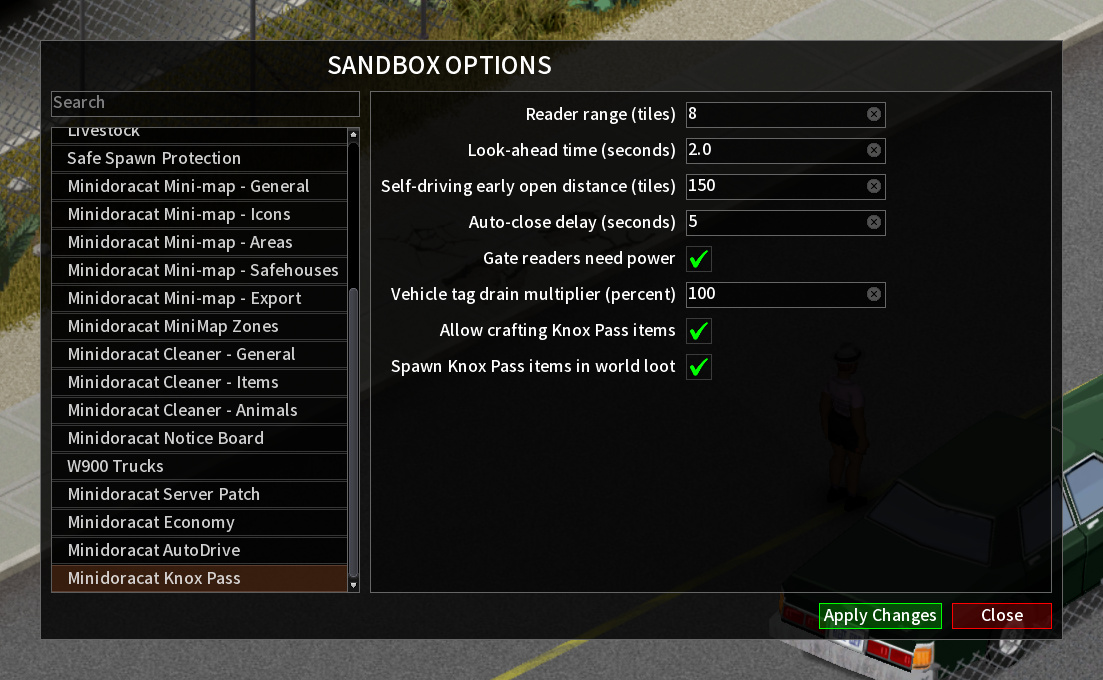
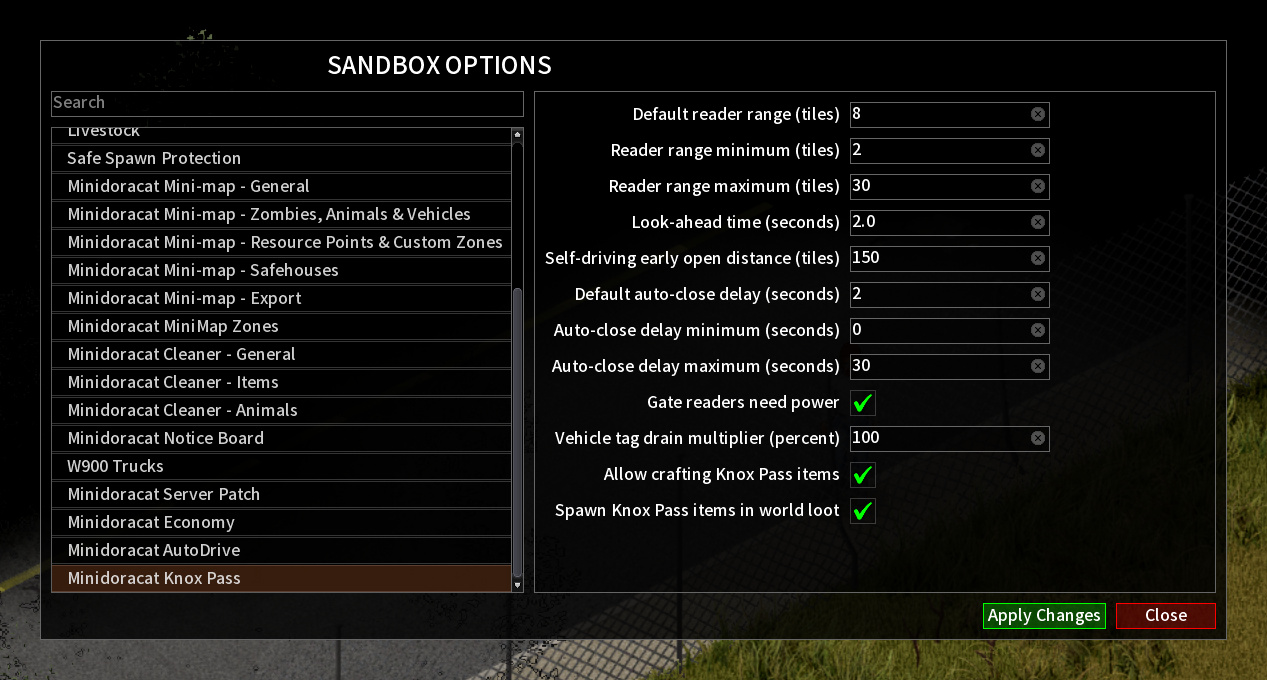
Workshop 截圖與說明：自建大門、每扇門設定、殭屍門鎖
截圖 12–15（r3：車庫捲門、閘門四向、拖車整台通過、地上範圍圈）照 temp/workshop-shots-1007 拍；05、09 重拍（管理視窗的兩個下拉選單、沙盒新的上下限）。16、17 是 r4 的拼圖：五種兩層樓大門加柱面讀頭與開門中、全開，雙桿閘門、兩層樓捲門與 6／9 格寬捲門，取自 r4 報告補拍 knoxpass-report-20261008-062945-8870（避開 debug 主控台裁切，en／zh 只差標籤），JPG ≤275,000 bytes。

簡介三語：抬升閘門那行改成「自己蓋大門」，各門各自登記那行加上感應距離與關門延遲。說明串（繁中、英文）補上自己蓋的大門、每扇門設定、沙盒上下限、整台通過就關門、殭屍不擋門與門鎖、用 Knox Pass 關門、已知限制與常見問題；材料名照原版譯名（金屬片、鐵絲、Steel Sheet、Iron Pipe）。README 功能與效果圖同步；workshop.txt 由 gen_workshop_txt.py 重建。

diff --git a/STEAM_DISCUSSION_guide_EN.md b/STEAM_DISCUSSION_guide_EN.md
@@ -27,9 +27,10 @@ Knox Pass lets you drive home without getting out: put a tag in the car and a re
 
 [h3]Gate Reader[/h3]
 [list]
-[*] [b]Where it fits[/b]: map doors, fence gates, double doors, garage doors, and player-built doors and gates.
-[*] [b]Installing[/b]: right-click the gate with the reader and a screwdriver. Whoever installs it owns it. Once installed, the reader shows on the gate post (a boom barrier has its reader on top of the cabinet); it doesn't block people or cars.
-[*] [b]Management window[/b]: shows the gate type, owner, power, lock, registered cars (charge, last pass) and nearby cars with a tag.
+[*] [b]Where it fits[/b]: map doors, fence gates, double doors, garage doors, player-built doors and gates, and Knox Pass's own roll-up garage doors, two-story roll-up doors and two-story gates (see "Build your own gates" below).
+[*] [b]Installing[/b]: right-click the gate with the reader and a screwdriver. Whoever installs it owns it. Once installed, the reader shows on the gate post (on the face of the pillar for two-story gates; boom barriers and double boom barriers have theirs on top of the cabinet); it doesn't block people or cars.
+[*] [b]Management window[/b]: shows the gate type, owner, power, lock, this gate's read range and close delay, registered cars (charge, last pass) and nearby cars with a tag. While it's open, an amber circle on the ground shows this gate's read range (the range for a car standing still; faster cars open it sooner).
+[*] [b]Per-gate settings[/b]: the owner or an admin picks this gate's read range and close delay from two dropdowns in the window, limited to what the server allows (2–30 tiles and 0–30 seconds by default); "Server default" follows the sandbox setting. If the server later narrows the limits, gates that were set follow the new limits and keep their value.
 [*] [b]Removing[/b]: the owner can take the reader back. If Knox Pass has the gate open, it closes it first and restores the original lock.
 [/list]
 
@@ -40,46 +41,62 @@ Knox Pass lets you drive home without getting out: put a tag in the car and a re
 [*] [b]Craft it in color[/b]: the crafting list has one entry per color (for example "Craft Knox Pass Vehicle Tag (Black)"). It takes the usual materials plus one use of that paint, and you need a paintbrush (it isn't used up). Without paint you craft a Cream one.
 [*] [b]In your inventory[/b]: right-click a tag or reader you carry (bags count) → [b]Repaint[/b] → pick a color. Colors you lack paint or a paintbrush for are grayed out; hover to see what's missing. A tag keeps its charge and its registration at every gate, so it opens the same gates after repainting.
 [*] [b]A reader on a gate[/b]: the owner or an admin right-clicks the gate → Knox Pass → [b]Repaint[/b]; your character walks to the gate and paints it, and registrations stay as they are.
-[*] [b]A tag in a car[/b]: the windshield shows its color. To repaint it, remove it in the mechanics panel first, then install it again. A boom barrier's built-in reader can't be repainted.
+[*] [b]A tag in a car[/b]: the windshield shows its color. To repaint it, remove it in the mechanics panel first, then install it again. The built-in reader of a boom barrier or double boom barrier can't be repainted.
 [/list]
 
 [h3]Boom Barrier[/h3]
 [list]
-[*] [b]Building[/b]: craft a "Knox Pass Boom Barrier Kit" and place it on the road from the build menu. It takes 4 tiles: 1 for the cabinet and 3 for the lane; rotate it to run north–south or east–west.
+[*] [b]Building[/b]: craft a "Knox Pass Boom Barrier Kit" and place it on the road from the build menu. It takes 4 tiles: 1 for the cabinet and 3 for the lane; rotate it while building to face any of four directions, with the cabinet at either end of the lane.
 [*] [b]Built-in reader[/b]: whoever builds it owns it, and registration, the lock, power and the management window all work like a gate. The reader can't be removed on its own.
-[*] [b]Easy to read[/b]: when closed, the pivot lamp is red and a STOP sign hangs from the arm; when it opens for a registered car, the arm lifts over about 4 seconds and the lamp turns green. Stop lines and KNOX PASS lettering are painted on the lane on both sides.
-[*] [b]Removing and damage[/b]: dismantling the cabinet removes the whole barrier and gives the kit back. If the cabinet or the lane gets broken, the whole barrier is destroyed with no refund.
+[*] [b]Easy to read[/b]: when closed, the pivot lamp is red and a STOP sign hangs from the arm; when it opens for a registered car, the arm lifts over about 4 seconds, easing in and out, and the lamp turns green. Stop lines and KNOX PASS lettering are painted on the lane on both sides.
+[*] [b]Removing and damage[/b]: dismantling the cabinet removes the whole barrier and gives the kit back. If the cabinet or the lane gets broken, the whole barrier is destroyed with no refund. New barriers have 1000 durability on the cabinet and lane; barriers built before this update keep their old durability.
+[/list]
+
+[h3]Build your own gates[/h3]
+[list]
+[*] [b]Roll-up garage doors[/b]: search the build menu for "Roll-up Garage Door". Vanilla look in Industrial White, Green and White, each 3, 4, 6 or 9 tiles wide (6 fits two cars side by side, 9 fits three). Needs Welding 3 plus a welding torch, welding rods, steel sheets, iron pipes and door hinges; wider doors take more. No reader built in: install one like on any gate.
+[*] [b]Two-story roll-up doors[/b]: the same three colors, 3, 4, 6 or 9 wide; the curtain rolls all the way up into the box on top, so vans fit through. Needs Welding 4 and twice the materials of the one-story door of the same width. No reader built in.
+[*] [b]Double boom barrier[/b]: 6 or 9 tiles wide, with a cabinet at each end and two arms that meet in the middle. Build it with a screwdriver from 1 boom barrier kit plus iron pipes, steel sheets and wire (6 wide: 4, 2 and 2; 9 wide: 6, 3 and 2); no skill needed. It comes with a built-in reader, and the builder owns it.
+[*] [b]Two-story gates[/b]: 6 or 9 tiles wide double gates in five looks: Chain-link, Steel Plate, Iron Bars (Welding 5), Ranch Wood (Carpentry 5) and Medieval Oak (Carpentry 5, plus Welding 2 for its iron bands). Rotating while building picks which side the leaves swing to. No reader built in; once installed, the reader hangs on the face of the post.
+[*] [b]Durability[/b]: a one-car door (3 or 4 wide) has 1000, two cars (6 wide) 1500 and three cars (9 wide) 2000; two-story ones get 500 more.
+[*] [b]Removing and damage[/b]: dismantling either end (cabinet or post) of a double boom barrier or two-story gate removes the whole thing and refunds only that end's materials. If any door piece gets broken, the whole thing is destroyed with no refund.
+[*] [b]Animation[/b]: arms, roll-up curtains and gate leaves ease in and out as they move, and several gates moving at once each run on their own.
 [/list]
 
 [h3]Hands-free opening and closing[/h3]
 [list]
 [*] [b]Who opens it[/b]: the driver of a car carrying a registered, charged tag. Passengers, unregistered cars and empty tags open nothing.
 [*] [b]Opens early[/b]: the server predicts where the car is heading from its actual movement, so the faster you drive the earlier it opens; driving past in another direction doesn't. When a car under Minidoracat AutoDrive heads for the gate, the gate opens while it is still out of the car's sight; newer AutoDrive versions also know in advance that the gate will open for them, so they never slow down or detour for it.
-[*] [b]Closes by itself[/b]: it only closes gates Knox Pass opened, after no registered, driven car has been in range for a while.
-[*] [b]Never closes on anything[/b]: it waits while a car, a person or a zombie is in the doorway, and tries again two seconds later.
+[*] [b]Closes by itself[/b]: it only closes gates Knox Pass opened. Once a registered car, including any trailer it tows, has fully passed through the gateway, the close countdown starts; it doesn't wait for the car to leave the read range, and a car parked inside doesn't hold it open. Turning back toward the gate opens it again.
+[*] [b]Never closes on anything[/b]: it waits while a car or a person is in the doorway and tries again two seconds later. Zombies alone don't hold it open, so zombies following a car in can't keep the gate open.
 [*] [b]Warning before you reach it[/b]: when you drive toward a Knox Pass gate or barrier that won't open for you, you get a message above your head and in the top-right corner about 20 tiles before it, saying why (no tag installed, the tag isn't registered at that gate, an empty tag, an unpowered reader), so you don't drive straight into it.
 [/list]
 
 [h3]Gate lock and opening on foot[/h3]
 [list]
-[*] [b]Lock[/b]: the owner can turn on "Lock (only Knox Pass opens it)" in the right-click menu or the window. A locked gate can't be opened bare-handed; Knox Pass unlocks it to open and locks it again once closed. A house door's original key keeps working, so whoever holds that key can still open it.
+[*] [b]Lock[/b]: the owner can turn on "Lock (only Knox Pass opens it)" in the right-click menu or the window. A locked gate can't be opened bare-handed, and zombies that open doors can't open it either; Knox Pass unlocks it to open and locks it again once closed. A house door's original key keeps working, so whoever holds that key can still open it.
 [*] [b]Your old locks stay intact[/b]: a map door that was locked goes back to exactly the same kind of lock after closing, so its original key still works.
-[*] [b]On foot[/b]: right-click → Knox Pass → [b]Open with Knox Pass[/b]. The owner, admins, and anyone carrying a registered, charged tag can use it.
+[*] [b]On foot[/b]: right-click → Knox Pass → [b]Open with Knox Pass[/b]. The owner, admins, and anyone carrying a registered, charged tag can use it. A gate opened on foot stays open at least 5 seconds, so you can walk through even with a very short close delay.
+[*] [b]Close with Knox Pass[/b]: while the gate stands open (for example after someone opened it with the original key), right-click → Knox Pass → [b]Close with Knox Pass[/b]; it closes and locks again. The same people who can open it on foot can use it.
+[*] [b]Gates locked before this update[/b]: they get the new lock automatically; there's nothing to set again.
 [/list]
 
 [h3]Getting them[/h3]
 [list]
 [*] [b]Vehicle Tag[/b]: Electrical 2. Use a screwdriver to build it from a pager or TV remote, 2 electronics scrap and 1 battery; add one use of paint and a paintbrush to craft it in that color (see "Shell Colors" above). Also found in gas station storage, car supply stores, mechanic electrical shelves and electronics stores, in a random color.
-[*] [b]Gate Reader[/b]: Electrical 4. Use a screwdriver to build it from a radio receiver, 3 electronics scrap and 2 electric wires; it can be crafted in color the same way. Also found in electrician tool boxes, electronics crates, hardware stores and mechanics, in a random color.
-[*] [b]Boom Barrier Kit[/b]: Electrical 4. Use a screwdriver to build it from 1 Gate Reader (any color), 2 metal pipes, 1 sheet of metal and 2 electric wires. Crafting only; it isn't found as loot.
+[*] [b]Gate Reader[/b]: Electrical 4. Use a screwdriver to build it from a radio receiver, 3 electronics scrap and 2 electrical wires; it can be crafted in color the same way. Also found in electrician tool boxes, electronics crates, hardware stores and mechanics, in a random color.
+[*] [b]Boom Barrier Kit[/b]: Electrical 4. Use a screwdriver to build it from 1 Gate Reader (any color), 2 iron pipes, 1 steel sheet and 2 electrical wires. Crafting only; it isn't found as loot.
+[*] [b]Gates you build[/b]: roll-up garage doors, two-story roll-up doors, two-story gates and double boom barriers all come from the build menu; see "Build your own gates" above for materials and skills.
 [/list]
 
 [h2]⚙ Server settings (sandbox page "Knox Pass")[/h2]
 [list]
-[*] [b]Read range[/b]: 8 tiles by default (2–30). The range around the gate while the car stands still.
+[*] [b]Read range[/b]: 8 tiles by default (2–50). The range around the gate while the car stands still; owners can set each gate to a value within the limits.
+[*] [b]Read range minimum / maximum[/b]: 2 / 30 tiles by default (2–50). The window's dropdown only lists this range, and each gate's effective value is kept inside it.
 [*] [b]Look-ahead seconds[/b]: 2 by default (0–5). How far ahead along the car's movement to look; 0 uses the plain range only.
 [*] [b]Self-driving early open distance[/b]: 150 tiles by default (0–250). When a car under Minidoracat AutoDrive heads for the gate (the gate within about 12 degrees of its direction of travel), the gate opens once the car is this close; the server must have the gate's area loaded first, so in practice it opens about 70–130 tiles out. 0 treats it like any other car.
-[*] [b]Auto-close delay[/b]: 5 seconds by default (0–120).
+[*] [b]Auto-close delay[/b]: 2 seconds by default (0–120).
+[*] [b]Auto-close delay minimum / maximum[/b]: 0 / 30 seconds by default (0–120); they work like the read range limits.
 [*] [b]Reader needs power[/b]: on by default. Grid power or a generator both count, and outdoor gates do get grid power.
 [*] [b]Tag battery drain[/b]: 100% by default (0–500%, 0 means it never runs out).
 [*] [b]Allow crafting[/b] and [b]Spawn as loot[/b]: on by default.
@@ -88,12 +105,13 @@ Knox Pass lets you drive home without getting out: put a tag in the car and a re
 [h2]⚠ Known limitations[/h2]
 [list]
 [*] Modded gates built some other way (for example ones that fake opening by swapping textures in code) aren't supported automatically. Mod authors can hook them in through the public interface, and players can ask for support in the feedback section.
-[*] Player-built garage doors aren't supported (the game itself doesn't open them as a group).
+[*] Garage doors built from the vanilla build menu aren't supported (the game itself doesn't open them as a group); for a garage door that opens by itself, build a Knox Pass roll-up garage door instead.
+[*] The door pieces of the barriers, roll-up doors and two-story gates you build are garage doors, which the game doesn't let you barricade.
 [*] A parked car with nobody in it and the engine off doesn't recharge its tag.
 [*] When a self-driving car passes along another road heading almost straight at the gate (for example a parallel road a few dozen tiles away), the gate may open early and close again a few seconds later.
 [*] The server can only open a gate once it has loaded that part of the map (roughly 60–130 tiles ahead of the car). With older AutoDrive versions a self-driving car may now and then see the gate closed a moment before it opens and slow down or drive around; newer versions are not affected. If the gate never opens, the self-driving car stops in front of it and waits or hands control back, just like at any closed gate; when the reason is something like an unpowered reader or a tag that isn't registered at that gate, newer AutoDrive versions tell you why in the top-right corner and with a voice line.
 [*] Low fence gates can always be climbed over; the lock doesn't stop climbing.
-[*] The boom barrier's cabinet always sits at one end (west for north–south, south for east–west); it can't be mirrored yet. Its lamp is just a color and doesn't glow at night.
+[*] Barrier lamps are just a color and don't glow at night.
 [/list]
 
 [h2]📜 Where the name comes from[/h2]
@@ -108,8 +126,9 @@ Knox Pass lets you drive home without getting out: put a tag in the car and a re
 [h2]❓ FAQ[/h2]
 [list]
 [*] [b]I drove up and nothing opened.[/b] Check that you're in the driver's seat, the tag has charge, this tag is registered at this gate, and the reader has power (the window shows it).
-[*] [b]The gate won't close.[/b] It waits while a car, a person or a zombie is in the doorway, and while a registered car with a driver is still in range.
-[*] [b]Can other players open my gate?[/b] Only the tags you registered can. Once locked it can't be opened bare-handed either, except by someone holding that door's original key; an unlocked gate can still be opened by hand as usual.
+[*] [b]The gate won't close.[/b] It waits while a car or a person is in the doorway (zombies don't count). It also stays open until a registered car has fully passed through, then closes after the close delay.
+[*] [b]Can other players open my gate?[/b] Only the tags you registered can. Once locked, neither bare hands nor zombies can open it, except someone holding that door's original key; an unlocked gate can still be opened by hand as usual.
+[*] [b]Can zombies open my gate?[/b] Not one with the Knox Pass lock on. An unlocked gate can be opened by zombies when the server lets zombies open doors, as in vanilla.
 [*] [b]Is it safe in multiplayer?[/b] Opening, closing, locking and registering are all checked by the server, and the registrations live only on the server.
 [/list]
 

diff --git a/README.md b/README.md
@@ -13,14 +13,15 @@ Project Zomboid Build 42 MOD。
 ## 功能
 
 - **車用感應盒**：真正的車輛零件，原版與 MOD 車都能裝，從車輛維修面板「Knox Pass」分類拆裝；內建電池，車子發動時由電瓶充電。原版車與[支援清單](#支援的-mod-車)上的常見 MOD 車，擋風玻璃上緣看得到裝上的感應盒。
-- **大門讀頭**：對大門按右鍵安裝（需要螺絲起子）；支援地圖上的門、柵欄門、雙開門、車庫門與玩家建造的門。裝好後門柱上看得到讀頭。
-- **各門各自登記**：讀頭擁有者在管理視窗登記附近裝了感應盒的車；登記跟著感應盒走，換車照樣通行。
-- **自動開關門**：有人駕駛、裝著已登記感應盒的車靠近就開門，駛離後自動關；會依車速提前開門，自動駕駛不必停車；門口有車或有人時不關。
-- **抬升閘門**：製作組件後從建造選單放在路上（機箱 1 格加 3 格車道），內建讀頭、建造者就是擁有者；關著亮紅燈、掛 STOP 牌，開啟時桿子抬起轉綠燈，車道兩側有停止線與 KNOX PASS 字樣。
+- **大門讀頭**：對大門按右鍵安裝（需要螺絲起子）；支援地圖上的門、柵欄門、雙開門、車庫門、玩家建造的門，以及下面 Knox Pass 自己的捲門與兩層樓大門。裝好後門柱上看得到讀頭。
+- **各門各自登記**：讀頭擁有者在管理視窗登記附近裝了感應盒的車；登記跟著感應盒走，換車照樣通行。擁有者還能用下拉選單替每扇門設定感應距離與關門延遲（只能選伺服器允許的範圍），視窗開著時地上會畫出這扇門的感應範圍。
+- **自動開關門**：有人駕駛、裝著已登記感應盒的車靠近就開門；會依車速提前開門，自動駕駛不必停車。登記的車連同拖車整台通過門口後就開始倒數關門，門口有車或有人時不關（殭屍不算）。
+- **抬升閘門**：製作組件後從建造選單放在路上（機箱 1 格加 3 格車道，旋轉可選四個方向），內建讀頭、建造者就是擁有者；關著亮紅燈、掛 STOP 牌，開啟時桿子抬起轉綠燈，車道兩側有停止線與 KNOX PASS 字樣。
+- **自己蓋的大門**：車庫捲門（工業白、綠、白三色，3、4、6、9 格寬，金工 3 級）、兩層樓車庫捲門（同樣三色四種寬度，金工 4 級）、雙桿抬升閘門（6、9 格寬，內建讀頭）、兩層樓大門（6、9 格寬，鐵網、鋼板、鐵欄杆、牧場木門、中世紀厚木門）。耐久一台車寬 1000、兩台 1500、三台 2000，兩層樓再多 500；開關時慢慢起動、慢慢停下。
 - **外殼顏色**：感應盒與讀頭各有 7 色（米白、黑色、石墨灰、軍綠、深藍、安全橘、紅色）。製作時多帶一罐對應顏色的原版油漆（用掉一格）和漆刷，就直接做出該色；不帶油漆做出米白，搜刮撿到的顏色隨機。已經有的，帶著油漆和漆刷在物品欄右鍵「重新上色」就能換色，電量與登記都保留。已裝在門上的讀頭，擁有者從大門右鍵的 Knox Pass 選單直接重新上色；車上的感應盒要先從維修面板拆下來再換。
 - **開車接近前提醒**：開向一扇不會為你打開的 Knox Pass 大門或閘門時，約 20 格前提示原因。
-- **大門門鎖**：可設成只有 Knox Pass 開得了；步行時也能用右鍵「用 Knox Pass 開門」。
-- **伺服器可調**：感應距離、行進預測、自動駕駛提早開門距離、關門延遲、供電需求、感應盒耗電、製作與搜刮開關。
+- **大門門鎖**：可設成只有 Knox Pass 開得了，會開門的殭屍也打不開；步行時也能用右鍵「用 Knox Pass 開門」，門被拿著原本鑰匙的人打開後，可以用「用 Knox Pass 關門」關好鎖回。
+- **伺服器可調**：感應距離與關門延遲（各有上下限，限制每扇門能選的範圍）、行進預測、自動駕駛提早開門距離、供電需求、感應盒耗電、製作與搜刮開關。
 - **給其他 MOD**：`KnoxPassAPI.registerGateAdapter` 可讓自訂的門接入 Knox Pass；`KnoxPassAPI.willOpenFor(vehicle, obj)` 讓自駕 MOD 在客戶端查「這扇門會不會替這台車開」（預告不是保證，呼叫端仍要能在門前停住），裝了讀頭的門不會開時第二個回傳值是原因代碼，`KnoxPassAPI.whyText(why)` 轉成玩家語言（`KnoxPassAPI.VERSION >= 3`）。介面說明見 `42/media/lua/shared/MinidoracatKnoxPass/Gates.lua` 檔尾。
 
 ## 效果圖
@@ -32,6 +33,16 @@ Project Zomboid Build 42 MOD。
 | ![開車靠近，大門提前打開](docs/screenshots/steam/zh/01-gate-opens-ahead-zh.jpg) | ![抬升閘門抬起](docs/screenshots/steam/zh/02-barrier-opens-zh.jpg) |
 | **開向不會打開的閘門：約 20 格前提醒原因** | **搭配 Minidoracat AutoDrive 自駕穿過大門** |
 | ![開車接近前提醒](docs/screenshots/steam/zh/03-barrier-warning-zh.jpg) | ![AutoDrive 穿過大門](docs/screenshots/steam/zh/04-autodrive-through-gate-zh.jpg) |
+| **車連拖車整台通過，閘門就開始放下** | **管理視窗開著時，地上畫出這扇門的感應範圍** |
+| ![整台車通過就關門](docs/screenshots/steam/zh/14-trailer-pass-zh.jpg) | ![感應範圍](docs/screenshots/steam/zh/15-range-circle-zh.jpg) |
+
+### 自己蓋的大門
+
+| 兩層樓大門：五種外觀 | 雙桿抬升閘門、兩層樓車庫捲門與 6／9 格寬車庫捲門 |
+|---|---|
+| ![兩層樓大門](docs/screenshots/steam/zh/16-two-story-gates-zh.jpg) | ![寬門](docs/screenshots/steam/zh/17-wide-doors-zh.jpg) |
+| **車庫捲門：工業白、綠色、白色** | **抬升閘門可以朝四個方向蓋** |
+| ![車庫捲門](docs/screenshots/steam/zh/12-roll-doors-zh.jpg) | ![抬升閘門的方向](docs/screenshots/steam/zh/13-barrier-directions-zh.jpg) |
 
 ### 大門讀頭
 

diff --git a/STEAM_DESCRIPTION_JP.md b/STEAM_DESCRIPTION_JP.md
@@ -21,15 +21,15 @@
 [h2]✨ 主な機能[/h2]
 [list]
 [*] [b]ボタン不要[/b]：運転席で近づくとゲートが開き、離れると閉まります
-[*] [b]遮断機[/b]：腕木が上がる遮断機を自分で建てられます。赤は止まれ、緑は進め
+[*] [b]ゲートを自作[/b]：遮断機、ガレージシャッター、2 階建てゲート。幅広タイプは車を何台も並べて通せます
 [*] [b]走行中も検知[/b]：速いほど早く開き、自動運転の車には遠くから開けておきます
 [*] [b]本物の車両部品[/b]：バニラ車にもMOD車にも付き、タグごと別の車へ移せます
-[*] [b]ゲートごとの登録[/b]：登録した車だけが通れ、Knox Pass 専用にロックもできます
+[*] [b]ゲートごとの登録[/b]：登録した車だけが通れ、感知距離・閉まるまでの時間・ロックもゲートごとに設定できます
 [*] [b]多くのゲートに対応[/b]：フェンスゲート、両開き扉、ガレージ扉、プレイヤーが建てた扉
 [*] [b]7色の外装[/b]：バニラの塗料で好きな色を製作、手持ちのタグとリーダーも塗り替え可能
 [*] [b]衝突・挟み込み防止[/b]：開かないゲートは手前で知らせ、車や人がいる間は閉まりません
 [/list]
-📖 [b]リーダーの取り付け、車両の登録、外装の色、遮断機、入手方法、よくある質問：[/b][url=https://steamcommunity.com/workshop/filedetails/discussion/3814684002/586187800874015404/]Knox Pass Guide: Tags, Readers & Hands-free Gates[/url]（英語）
+📖 [b]リーダーの取り付け、車両の登録、ゲートの自作、ゲートごとの設定、外装の色、入手方法、よくある質問：[/b][url=https://steamcommunity.com/workshop/filedetails/discussion/3814684002/586187800874015404/]Knox Pass Guide: Tags, Readers & Hands-free Gates[/url]（英語）
 
 [h2]🔗 Minidoracat 全シリーズ[/h2]
 ほかの作品は[url=https://steamcommunity.com/sharedfiles/filedetails/?id=3809297109]Minidoracat コレクション[/url]からどうぞ。必要なものだけ購読してください。

diff --git a/STEAM_DESCRIPTION_EN.md b/STEAM_DESCRIPTION_EN.md
@@ -21,15 +21,15 @@ Put a tag in your car and a reader on your gate: drive up and the gate opens by 
 [h2]✨ Features[/h2]
 [list]
 [*] [b]Hands-free gates[/b]: drive up from the driver's seat and the gate opens, then closes after you leave
-[*] [b]Boom barriers[/b]: build your own lift-arm barrier; red means stop, green means go
+[*] [b]Build your own gates[/b]: boom barriers, roll-up garage doors and two-story gates, wide enough for several cars side by side
 [*] [b]Reads on the move[/b]: the faster you drive, the earlier it opens; self-driving cars find it already open
 [*] [b]A real vehicle part[/b]: fits vanilla and modded cars, and moves with the tag to another car
-[*] [b]Per-gate registration[/b]: only the cars you register get through, and you can lock it to Knox Pass only
+[*] [b]Per-gate registration[/b]: only the cars you register get through, and each gate has its own range, close delay and lock
 [*] [b]Works with many gates[/b]: fence gates, double doors, garage doors and player-built doors
 [*] [b]7 shell colors[/b]: craft tags and readers in color with vanilla paint, or repaint the ones you have
 [*] [b]No crashes, no pinching[/b]: warns you ahead of a gate that won't open, and never closes on a car or a person
 [/list]
-📖 [b]Installing readers, registering cars, shell colors, boom barriers, getting the items and FAQ:[/b] [url=https://steamcommunity.com/workshop/filedetails/discussion/3814684002/586187800874015404/]Knox Pass Guide: Tags, Readers & Hands-free Gates[/url]
+📖 [b]Installing readers, registering cars, building gates, per-gate settings, shell colors, getting the items and FAQ:[/b] [url=https://steamcommunity.com/workshop/filedetails/discussion/3814684002/586187800874015404/]Knox Pass Guide: Tags, Readers & Hands-free Gates[/url]
 
 [h2]🔗 All Minidoracat Mods[/h2]
 Browse the rest in the [url=https://steamcommunity.com/sharedfiles/filedetails/?id=3809297109]Minidoracat collection[/url] and subscribe to what you need.

diff --git a/STEAM_DESCRIPTION.md b/STEAM_DESCRIPTION.md
@@ -21,15 +21,15 @@
 [h2]✨ 主要功能[/h2]
 [list]
 [*] [b]免按鍵開門[/b]：坐駕駛座開近就開門，駛離後自動關
-[*] [b]抬升閘門[/b]：自己蓋一座會抬桿的閘門，紅燈停、綠燈行
+[*] [b]自己蓋大門[/b]：抬升閘門、車庫捲門與兩層樓大門，寬門可並排過多台車
 [*] [b]行進中也感應[/b]：車速越快越早開門，自駕車遠遠就開好
 [*] [b]真的車輛零件[/b]：原版與 MOD 車都能裝，換車照樣通行
-[*] [b]各門各自登記[/b]：只有你登記的車開得了，還能鎖成只認 Knox Pass
+[*] [b]各門各自登記[/b]：只有登記的車開得了，感應距離、關門延遲與門鎖各門自訂
 [*] [b]支援多種門[/b]：柵欄門、雙開門、車庫門與玩家建造的門
 [*] [b]7 種外殼顏色[/b]：用原版油漆直接做出該色，或替現有的重新上色
 [*] [b]不撞也不夾[/b]：開不了的門提前提醒，門口有車或人不關門
 [/list]
-📖 [b]安裝讀頭、登記車輛、外殼顏色、抬升閘門、取得方式與常見問題：[/b][url=https://steamcommunity.com/workshop/filedetails/discussion/3814684002/586187800874015409/]Knox Pass 完整說明：感應盒、讀頭與自動開門[/url]
+📖 [b]安裝讀頭、登記車輛、自建大門、每扇門設定、外殼顏色、取得方式與常見問題：[/b][url=https://steamcommunity.com/workshop/filedetails/discussion/3814684002/586187800874015409/]Knox Pass 完整說明：感應盒、讀頭與自動開門[/url]
 
 [h2]🔗 Minidoracat 全系列[/h2]
 其他作品都在[url=https://steamcommunity.com/sharedfiles/filedetails/?id=3809297109]Minidoracat 全系列收藏[/url]，依需求自選訂閱。
